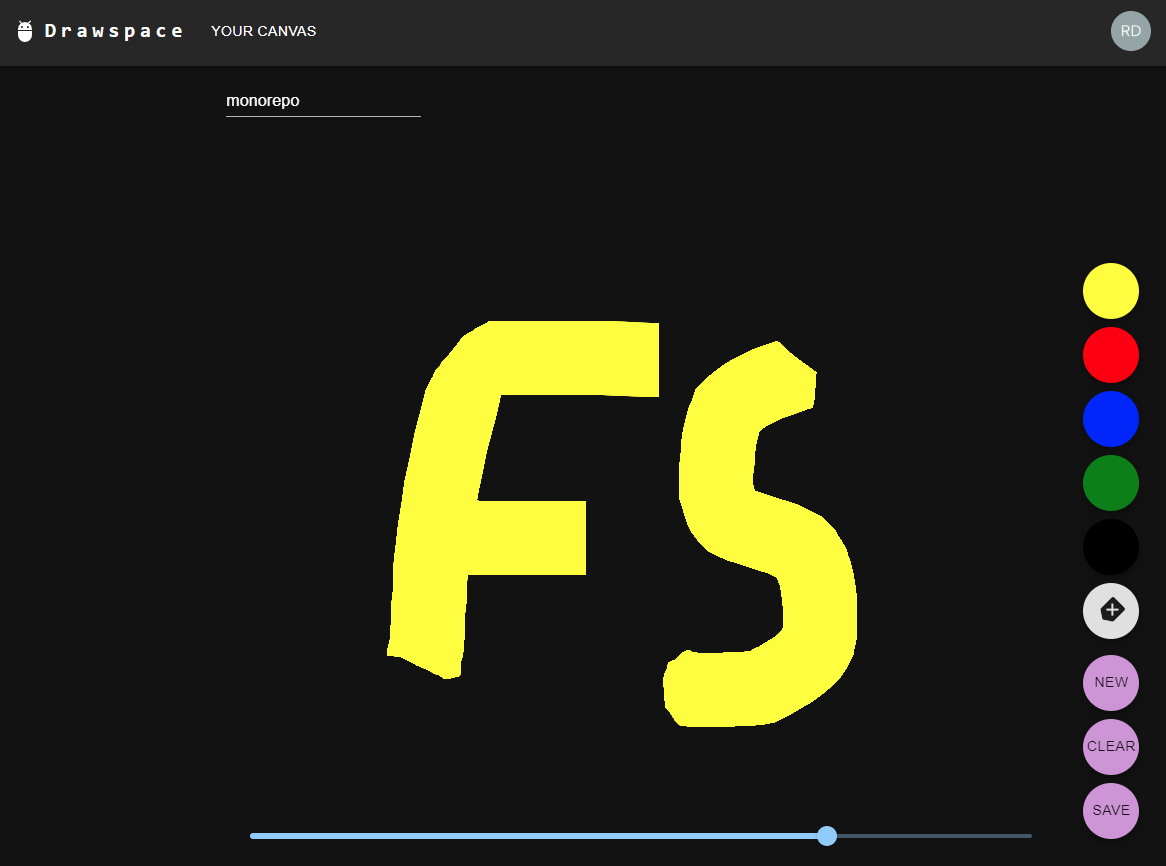
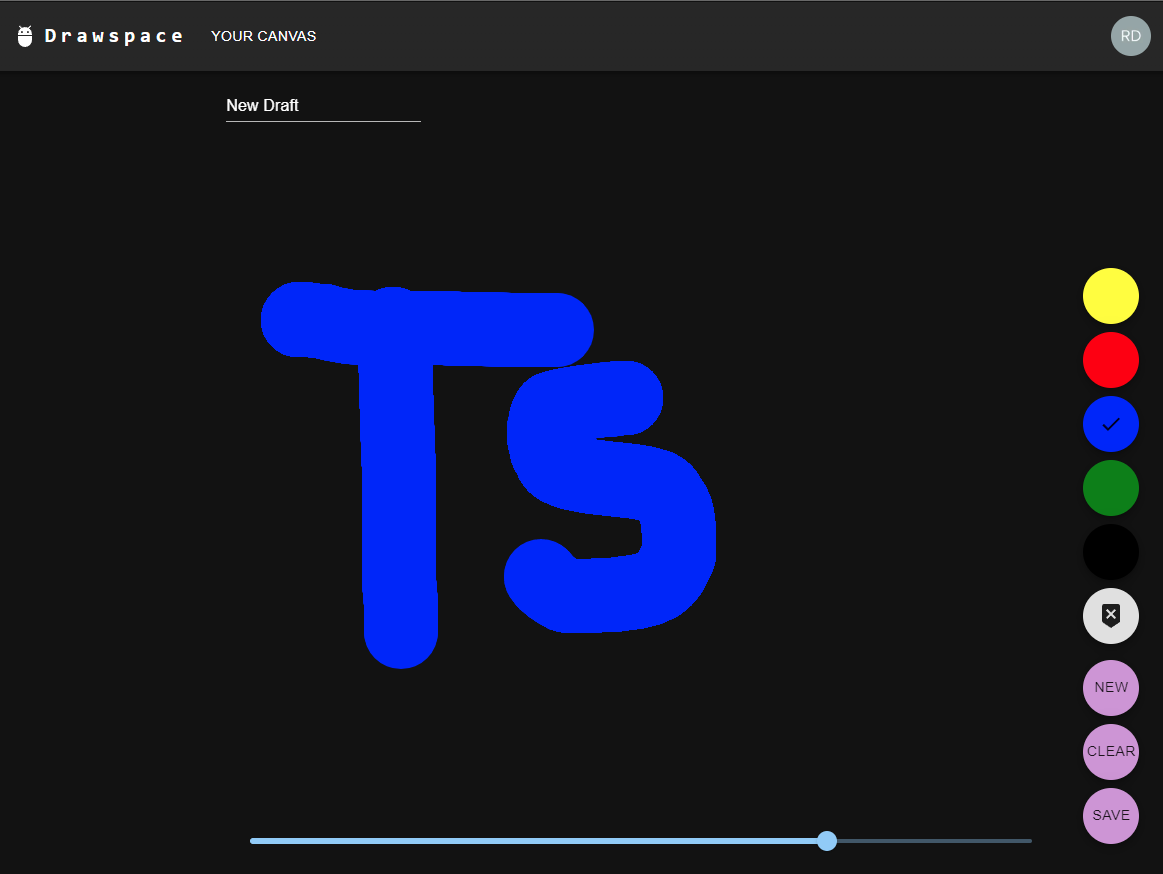
feat: color

diff --git a/client/src/features/canvas/Canvas.tsx b/client/src/features/canvas/Canvas.tsx
@@ -43,7 +43,7 @@ export function Canvas({
       contextRef.current.globalCompositeOperation = 'destination-out'
     } else {
       contextRef.current.globalCompositeOperation = 'source-over'
-      contextRef.current.strokeStyle = color || 'black'
+      contextRef.current.strokeStyle = color || config.defaultColor
     }
     contextRef.current.lineWidth = size || config.defaultLineSize
     isDrawing.current = true
@@ -98,10 +98,9 @@ export function Canvas({
     if (!canvas || !context) {
       return
     }
-    setBrushDefaults(context)
     contextRef.current = context
 
-    //Responsive
+    setBrushDefaults(context)
     adjustToResolution(canvas)
 
     const handleResizing = () => {

diff --git a/client/src/features/canvas/helpers.ts b/client/src/features/canvas/helpers.ts
@@ -5,7 +5,7 @@ export function setBrushDefaults(
   context: CanvasRenderingContext2D | OffscreenCanvasRenderingContext2D
 ) {
   context.lineCap = 'round'
-  context.strokeStyle = 'yellow'
+  context.strokeStyle = config.defaultColor
   context.lineWidth = config.defaultLineSize
   context.lineJoin = 'round'
 }

diff --git a/README.md b/README.md
@@ -74,6 +74,6 @@ NPM
 
 Backend might be sleeping, takes a bit to wake up
 
-[![Image](https://raw.githubusercontent.com/ruyd/fullstack-monorepo/master/client/src/pages/Home/images/self.PNG)](https://ruyd.github.io/fullstack-monorepo)
+[![Image](https://raw.githubusercontent.com/ruyd/fullstack-monorepo/master/client/src/pages/Home/images/self.PNG)](https://ruyd.github.io/fullstack-monorepo/draw)
 
 [![License: ISC](https://img.shields.io/badge/License-ISC-blue.svg)](https://opensource.org/licenses/ISC)
